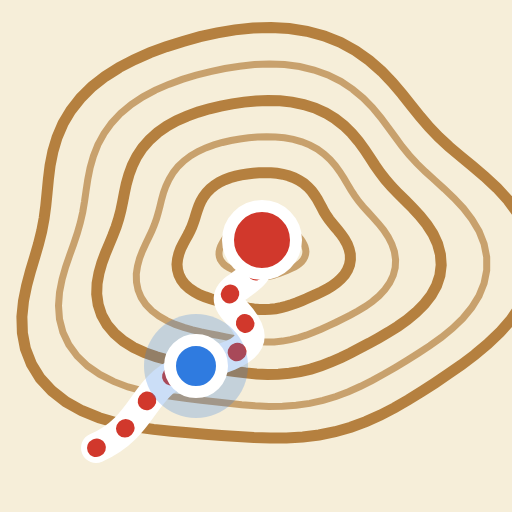
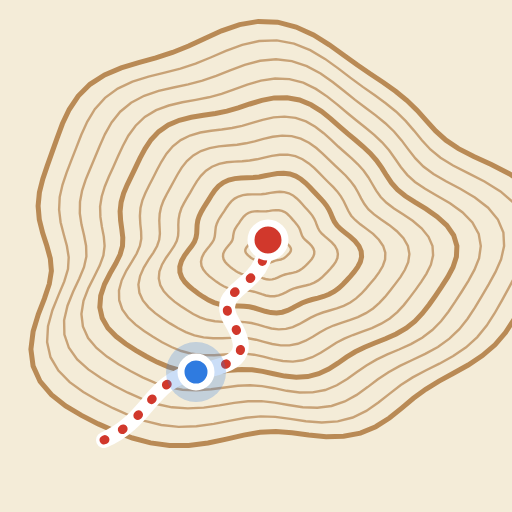
アイコンを、変更前の斬新(等高線が細かい版)に差し替え
太い版は icons/icon-bold.svg に残してある。

Changed region(s): [[0.0312, 0.0312, 1.0, 0.9062]]

diff --git a/sw.js b/sw.js
@@ -1,5 +1,5 @@
 // アプリ本体と、保存した地図タイルを端末に持たせるための Service Worker
-var APP = 'yama-app-v8';
+var APP = 'yama-app-v9';
 var TILES = 'yama-tiles-v1';
 var SHELL = ['./', 'manifest.webmanifest', 'icons/icon-192.png', 'icons/icon-512.png', 'icons/apple-touch-icon.png', 'icons/favicon-32.png', 'index.html', 'style.css', 'app.js', 'offline.js', 'db.js', 'courses.js', 'log.js', 'routes.js', 'nav.js', 'track.js', 'plan.js',
   'lib/leaflet.min.js', 'lib/leaflet.min.css',
